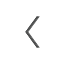
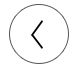
Updated controls artwork and positioning

Changed region(s): [[0.0938, 0.0312, 0.9062, 0.9375], [0.375, 0.25, 0.625, 0.75]]

diff --git a/style.css b/style.css
@@ -136,9 +136,9 @@ body, div {
 #controls {
 	position: absolute;
 	margin-left: 50%;
-	top: 261px;
-	left: -598px;
-	width: 1195px;
+	top: 241px;
+	left: -588px;
+	width: 1175px;
 	height: 352px;
 }
 
@@ -146,7 +146,7 @@ body, div {
     background: url("images/arrow_left_0.png") center no-repeat;
     position: absolute;
     left: 0px;
-    width: 25px;
+    width: 78px;
     height: 100%;
 }
 
@@ -154,7 +154,7 @@ body, div {
     background: url("images/arrow_right_0.png") center no-repeat;
     position: absolute;
     right: 0px;
-    width: 25px;
+    width: 78px;
     height: 100%;
 }
 
@@ -168,29 +168,27 @@ body, div {
 }
 
 #work_controls .previous {
-    background: url("images/arrow_left.png") center no-repeat;
+    background: url("images/arrow_left_0.png") center no-repeat;
     position: absolute;
-    top: 38px;
     left: -117px;
-    width: 65px;
+    width: 78px;
     height: 100%;
 }
 
 #work_controls .next {
-    background: url("images/arrow_right.png") center no-repeat;
+    background: url("images/arrow_right_0.png") center no-repeat;
     position: absolute;
-    top: 38px;
     right: 72px;
-    width: 65px;
+    width: 78px;
     height: 100%;
 }
 
 #close {
     background: url("images/close_x.png") center no-repeat;
     position: absolute;
-    top: -330px;
-    left: 470px;
-    width: 65px;
+    top: -320px;
+    left: 459px;
+    width: 79px;
     height: 100%;
 }
 
